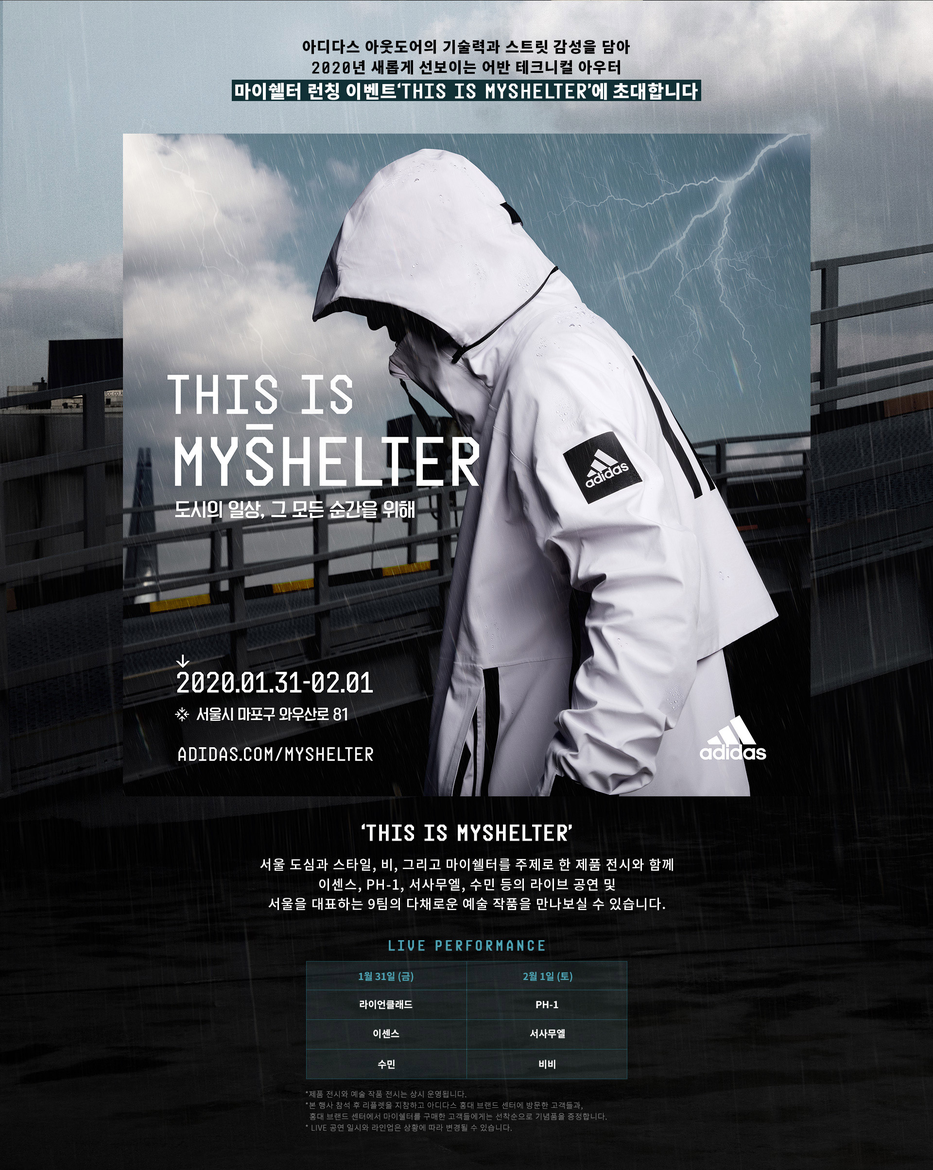
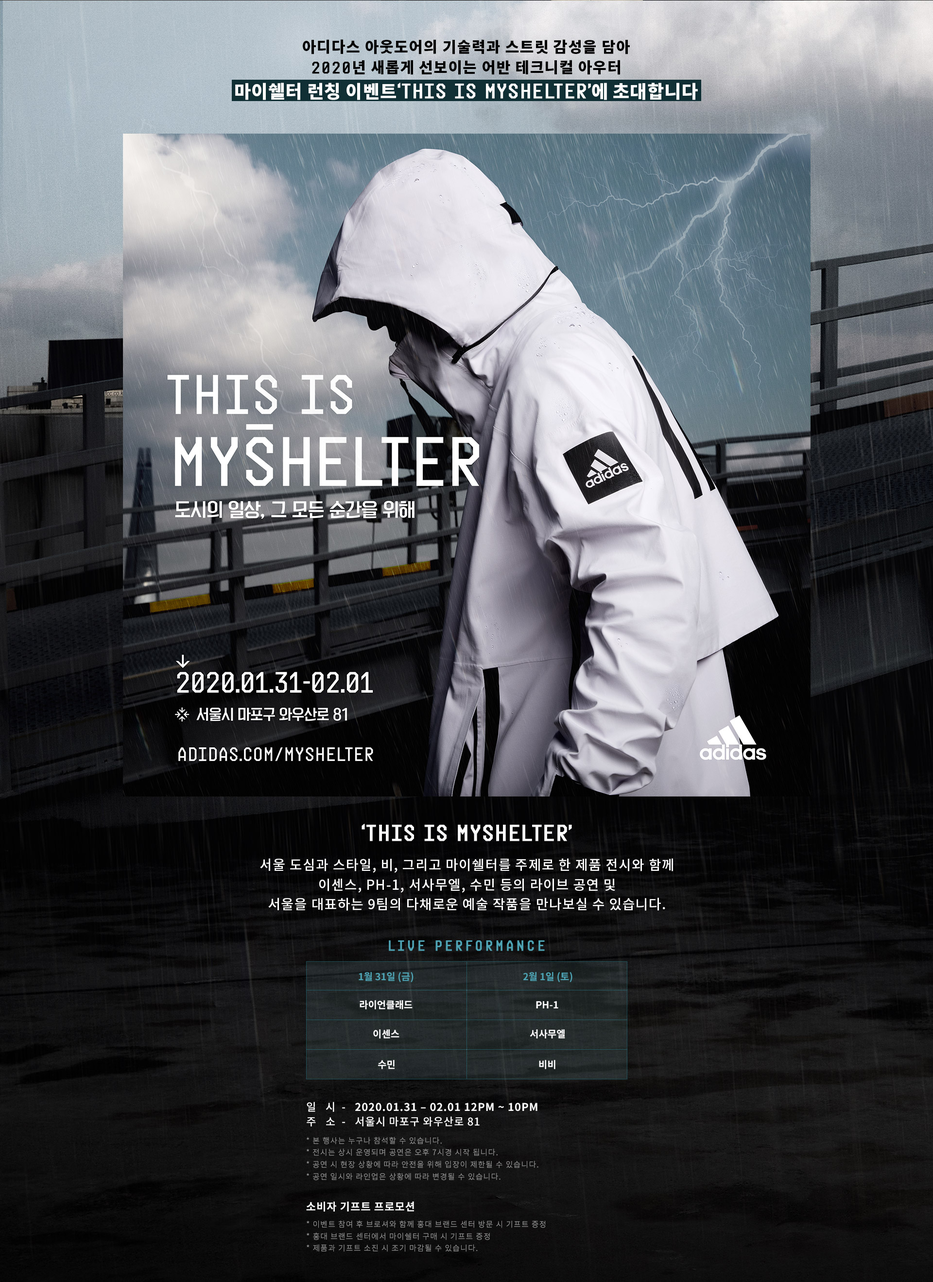
adi_cp_마이쉘터 포스터 유의사항 수정

diff --git a/front/html/adidas/2020/event/outdoor/0121_shelter/build/index.html b/front/html/adidas/2020/event/outdoor/0121_shelter/build/index.html
@@ -1435,7 +1435,7 @@
 					</div>
 				</div>
 
-				<div id="notizone" name="notizone" style="height: 2408px">
+				<div id="notizone" name="notizone" style="height: 2638px">
 					<div class="imgbg">
 						<img src="/images/adidas/2020/event/outdoor/0121/poster_img.jpg" alt="">
 					</div>

diff --git a/front/html/adidas/2020/event/outdoor/0121_shelter/index.html b/front/html/adidas/2020/event/outdoor/0121_shelter/index.html
@@ -1433,7 +1433,7 @@
 					</div>
 				</div>
 
-				<div id="notizone" name="notizone" style="height: 2408px">
+				<div id="notizone" name="notizone" style="height: 2638px">
 					<div class="imgbg">
 						<img src="/images/adidas/2020/event/outdoor/0121/poster_img.jpg" alt="">
 					</div>

diff --git a/front/html/adidas/html/pn/MYSHELTER.html b/front/html/adidas/html/pn/MYSHELTER.html
@@ -429,7 +429,7 @@
 					</div>
 				</div>
 
-				<div id="notizone" name="notizone" style="height: 2408px">
+				<div id="notizone" name="notizone" style="height: 2638px">
 					<div class="imgbg">
 						<img src="/images/adidas/2020/event/outdoor/0121/poster_img.jpg" alt="">
 					</div>

diff --git a/front/html/adidas/html/pn/MYSHELTER_poster.html b/front/html/adidas/html/pn/MYSHELTER_poster.html
@@ -429,7 +429,7 @@
 					</div>
 				</div>
 
-				<div id="notizone" name="notizone" style="height: 2408px">
+				<div id="notizone" name="notizone" style="height: 2638px">
 					<div class="imgbg">
 						<img src="/images/adidas/2020/event/outdoor/0121/poster_img.jpg" alt="">
 					</div>
